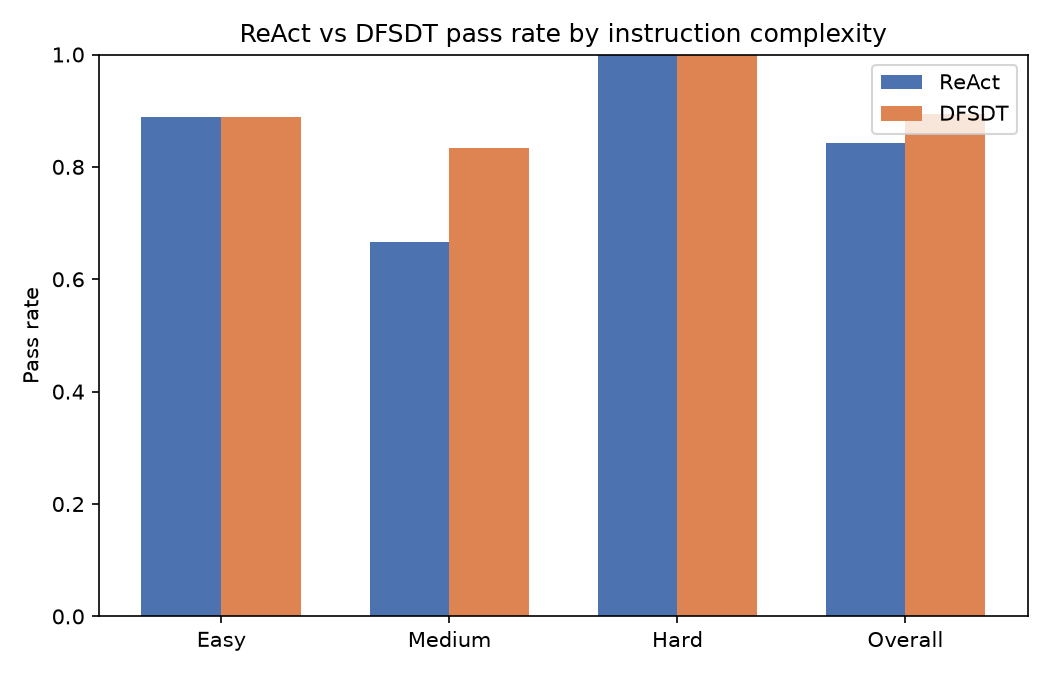
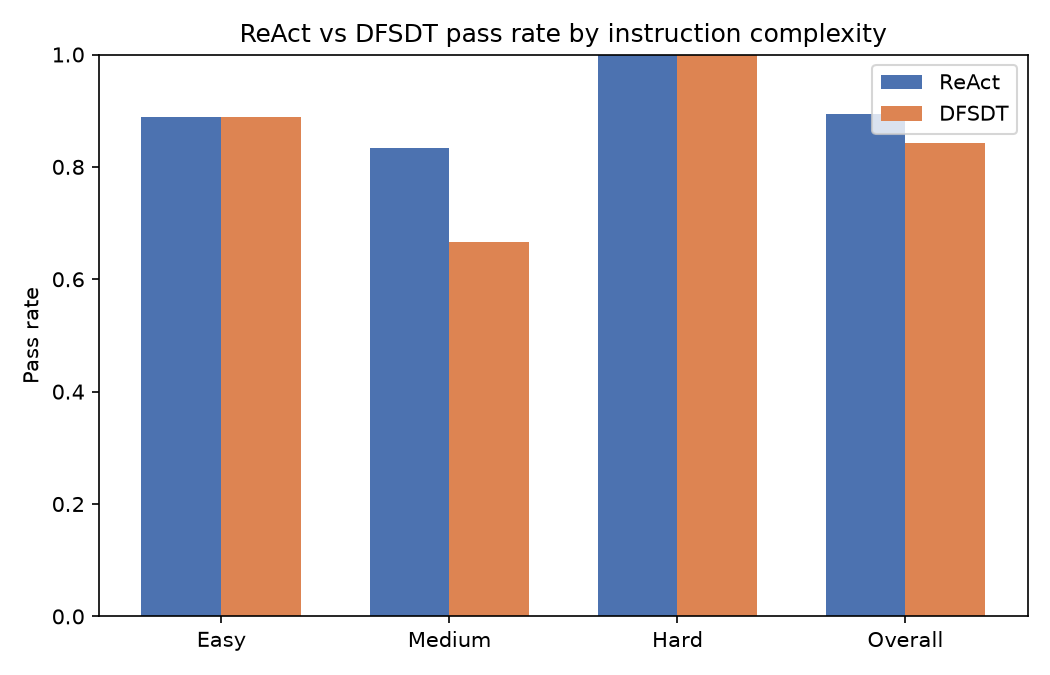
Add single-question CLI scripts; refresh benchmark results
ask.py and scripts/ask.py let you run one instruction through the
DFSDT or ReAct agent from the command line without the full benchmark
harness. Also re-ran the benchmark, updating the pass-rate table and
chart in results/.

Changed region(s): [[0.3352, 0.2178, 0.5181, 0.3733], [0.7619, 0.1556, 0.9448, 0.2178]]

diff --git a/scripts/ask.py b/scripts/ask.py
@@ -1,0 +1,70 @@
+"""Ask the agent a single question from the command line.
+
+Usage:
+    python scripts/ask.py "What's the weather in Tokyo?"
+    python scripts/ask.py --dfsdt "Convert 20 USD to EUR and define 'serendipity'"
+
+Uses the same provider/model selection as run_benchmark.py
+(BENCHMARK_PROVIDER, BENCHMARK_MODEL, loaded from a local .env file).
+"""
+
+from __future__ import annotations
+
+import argparse
+import os
+import sys
+from pathlib import Path
+
+_ROOT = Path(__file__).resolve().parent.parent
+sys.path.insert(0, str(_ROOT))
+
+from dotenv import load_dotenv
+
+load_dotenv()
+
+from agent.dfsdt import DFSDTAgent
+from agent.llm import BaseLLM
+from agent.react import ReActAgent
+from apis.registry import keyless_registry
+from retriever.retriever import APIRetriever
+
+
+def _build_llm() -> BaseLLM:
+    provider = os.environ.get("BENCHMARK_PROVIDER", "gemini")
+    if provider == "anthropic":
+        from agent.anthropic_llm import AnthropicLLM
+
+        return AnthropicLLM(model=os.environ.get("BENCHMARK_MODEL", "claude-haiku-4-5-20251001"))
+    if provider == "gemini":
+        from agent.gemini_llm import GeminiLLM
+
+        return GeminiLLM(model=os.environ.get("BENCHMARK_MODEL", "gemini-3.5-flash-lite"))
+    raise ValueError(f"Unknown BENCHMARK_PROVIDER '{provider}' (expected 'anthropic' or 'gemini').")
+
+
+def main() -> None:
+    parser = argparse.ArgumentParser(description=__doc__)
+    parser.add_argument("instruction", help="Natural language question or task for the agent.")
+    parser.add_argument(
+        "--dfsdt", action="store_true", help="Use the DFSDT search agent instead of plain ReAct."
+    )
+    parser.add_argument(
+        "--top-k", type=int, default=5, help="Number of candidate APIs to retrieve (default: 5)."
+    )
+    args = parser.parse_args()
+
+    registry = keyless_registry()
+    retriever = APIRetriever(apis=registry.all())
+    candidate_apis = [r.api for r in retriever.retrieve(args.instruction, top_k=args.top_k)]
+
+    llm = _build_llm()
+    agent = DFSDTAgent(registry=registry, llm=llm) if args.dfsdt else ReActAgent(registry=registry, llm=llm)
+
+    result = agent.run(args.instruction, candidate_apis=candidate_apis)
+
+    answer = result.answer or "(agent did not produce a final answer)"
+    sys.stdout.buffer.write(answer.encode("utf-8", errors="replace") + b"\n")
+
+
+if __name__ == "__main__":
+    main()

diff --git a/ask.py b/ask.py
@@ -1,0 +1,56 @@
+"""Ask the DFSDT agent a single question from the command line.
+
+Usage:
+    python ask.py "What's the weather in Tokyo?"
+
+Uses the same provider/model selection as scripts/run_benchmark.py
+(BENCHMARK_PROVIDER, BENCHMARK_MODEL, loaded from a local .env file).
+"""
+
+from __future__ import annotations
+
+import os
+import sys
+
+from dotenv import load_dotenv
+
+load_dotenv()
+
+from agent.dfsdt import DFSDTAgent
+from agent.llm import BaseLLM
+from apis.registry import keyless_registry
+from retriever.retriever import APIRetriever
+
+
+def _build_llm() -> BaseLLM:
+    provider = os.environ.get("BENCHMARK_PROVIDER", "gemini")
+    if provider == "anthropic":
+        from agent.anthropic_llm import AnthropicLLM
+
+        return AnthropicLLM(model=os.environ.get("BENCHMARK_MODEL", "claude-haiku-4-5-20251001"))
+    if provider == "gemini":
+        from agent.gemini_llm import GeminiLLM
+
+        return GeminiLLM(model=os.environ.get("BENCHMARK_MODEL", "gemini-3.5-flash-lite"))
+    raise ValueError(f"Unknown BENCHMARK_PROVIDER '{provider}' (expected 'anthropic' or 'gemini').")
+
+
+def main() -> None:
+    if len(sys.argv) != 2:
+        print('Usage: python ask.py "your question here"', file=sys.stderr)
+        sys.exit(1)
+    instruction = sys.argv[1]
+
+    registry = keyless_registry()
+    retriever = APIRetriever(apis=registry.all())
+    candidate_apis = [r.api for r in retriever.retrieve(instruction, top_k=5)]
+
+    agent = DFSDTAgent(registry=registry, llm=_build_llm())
+    result = agent.run(instruction, candidate_apis=candidate_apis)
+
+    answer = result.answer or "(agent did not produce a final answer)"
+    sys.stdout.buffer.write(answer.encode("utf-8", errors="replace") + b"\n")
+
+
+if __name__ == "__main__":
+    main()

diff --git a/results/comparison_table.md b/results/comparison_table.md
@@ -1,6 +1,6 @@
 | Complexity | ReAct pass rate | DFSDT pass rate | N |
 | --- | --- | --- | --- |
 | easy | 89% | 89% | 9 |
-| medium | 67% | 83% | 6 |
+| medium | 83% | 67% | 6 |
 | hard | 100% | 100% | 4 |
-| **overall** | **84%** | **89%** | 19 |
+| **overall** | **89%** | **84%** | 19 |
